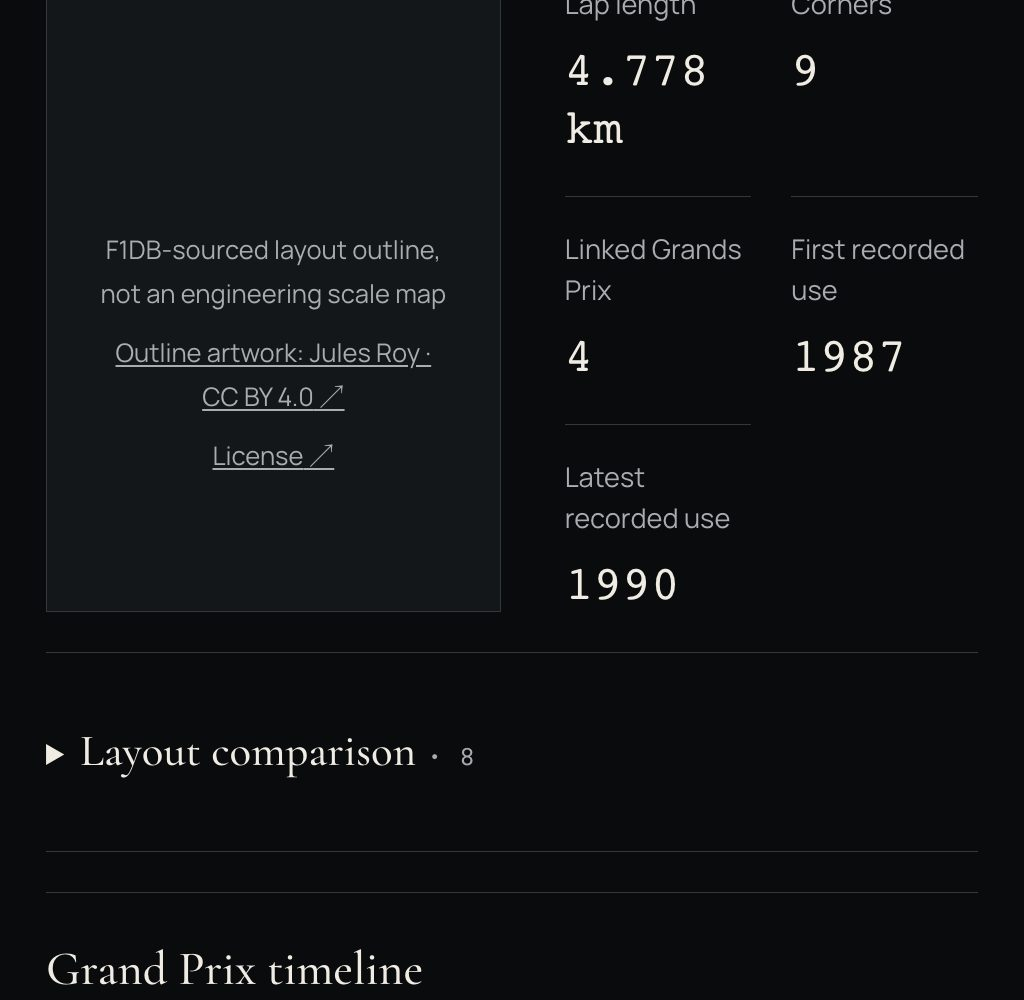
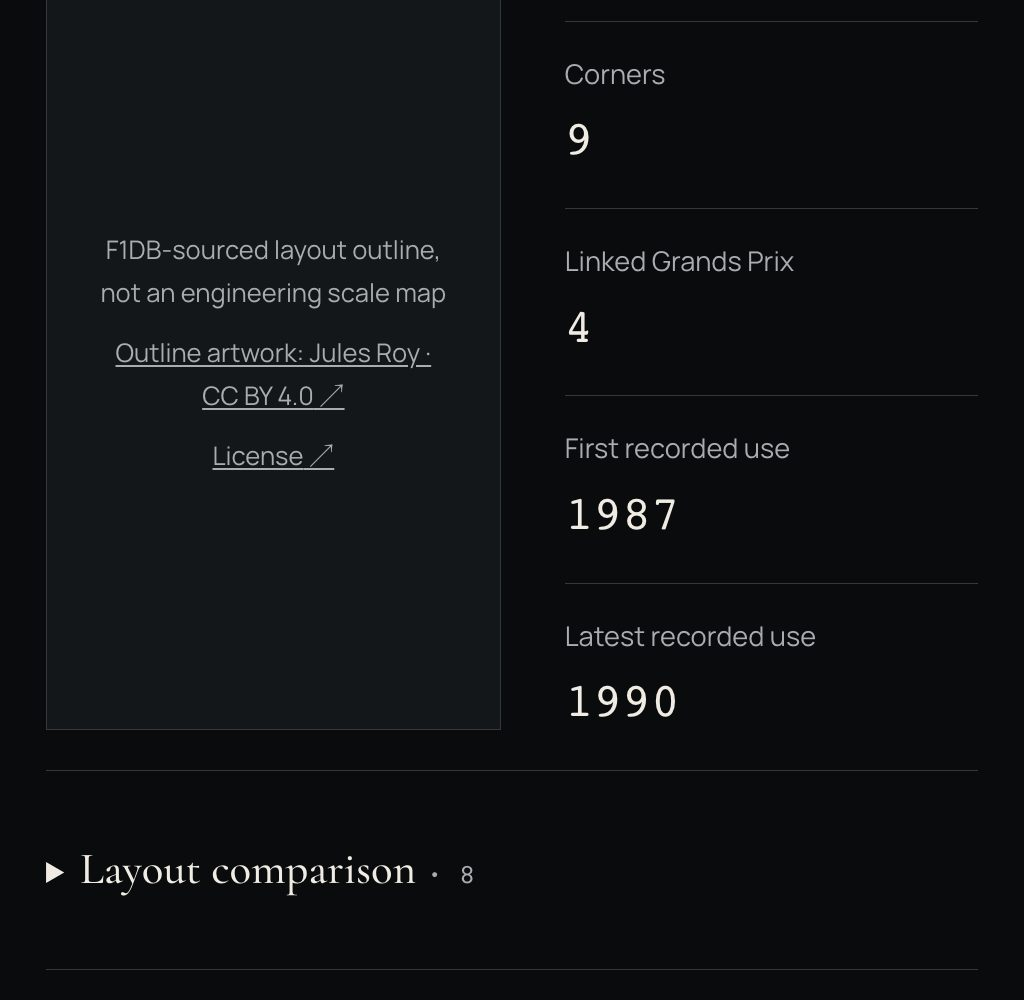
fix(typography): reflow enlarged circuit facts without splitting labels

diff --git a/apps/web/src/components/circuit-experience.module.css b/apps/web/src/components/circuit-experience.module.css
@@ -6,7 +6,7 @@
 .lead { max-width: 75ch; color: var(--muted); font-size: 1rem; line-height: 1.8; }
 .shell > .trackVisual { grid-column: 1; }
 .shell > .layout { grid-column: 2; align-self: start; }
-.layout { display: grid; gap: 1.5rem; }
+.layout { display: grid; gap: 1.5rem; container-type: inline-size; }
 .selector label { display: block; margin-bottom: .75rem; font-size: .9rem; }
 .selector select { width: 100%; min-width: 0; max-width: 100%; min-height: 48px; background: var(--surface); color: var(--ink); padding: .8rem; border: 1px solid var(--muted); border-radius: 0; font-size: 1rem; }
 .measurements { display: grid; grid-template-columns: repeat(2, minmax(0, 1fr)); gap: 1.25rem; }
@@ -87,3 +87,6 @@
 .eventTable td:nth-child(2) { min-width: 17rem; }
 .eventTable a { display: inline-block; min-height: 44px; text-decoration: underline; text-underline-offset: .2em; }
 .eventTable .provenance { border: 0; padding: 0; min-width: 10rem; }
+
+/* Follow the text size as well as viewport width, including 200% zoom. */
+@container (max-width: 18em) { .measurements { grid-template-columns: minmax(0, 1fr); } }

diff --git a/docs/design/product-experience-v3-final/README.md b/docs/design/product-experience-v3-final/README.md
@@ -66,3 +66,26 @@ The loaded local Atlas Serif (Cormorant) and Atlas Sans (Manrope) variable faces
 Read-only three-way compatibility inspection of #309 at `4c2857b` against the product stack found changes in the shared `release.module.css`, with no conflict markers in the automatic textual merge. The final integration changes do not touch #309-owned files. Its owner should rebase after A then B land, preserving B's tokens and reduced-motion overrides and rerunning story route/SEO checks. Source/editorial approval remains a separate blocker. No draft article or photographic asset was published.
 
 Independent review assessed the original final diff, factual labels, exact counts, adjacent pairs, native disclosure semantics and regression value: no blocking findings. Minor untranslated circuit table heading was corrected. Review is neither deterministic browser evidence nor independent editorial/media approval.
+
+## Executed local verification
+
+Node 24.21.0, repository pnpm toolchain; disposable PostgreSQL on port 55464. Full run conclusions and exact latest CI/commit handoff are maintained in [PR #310](https://github.com/vlovers/grid-atlas/pull/310), so queued checks are not represented as passing here.
+
+| Command | Actual result |
+| --- | --- |
+| `pnpm check` | Passed |
+| `pnpm lint` / `pnpm typecheck` | Passed |
+| `pnpm test` | 247 passed |
+| `python3 -m unittest discover -s tests -v` | 418 passed |
+| `pnpm build` | Passed; final circuit CSS also rebuilt successfully |
+| `pnpm test:integration` | 42 passed, 1 existing optional publication test skipped; owned disposable schemas |
+| `DATABASE_URL=… pnpm test:browser` | 508 passed, including desktop/mobile Chromium and WebKit reliability |
+| `PREVIEW_URL=http://127.0.0.1:3491 V3_API=http://127.0.0.1:3480 pnpm exec playwright test --config playwright.product-editorial-v3.config.ts` | Chromium/WebKit/mobile subject, font, chart and 200% checks; latest result in PR handoff |
+| `python3 scripts/verify-real-archive.py` | SQL/API parity passed, including shared-car results and both comparison directions |
+| `python3 scripts/audit-encyclopedia.py --archive … --checksums … --api-url … --web-url …` | Passed: 11,504 API requests, 2,406 web pages, all 27,665 result entries and 1,172 races compared |
+| `pnpm audit:media --as-of=2026-10-26` | Passed; zero public photographs, 160 attributed circuit illustrations |
+| `pnpm check:docs` / `git diff --check` | Passed |
+
+The final 200% visual pass found narrow two-column circuit labels despite no document overflow. A font-relative container query now stacks these facts when text needs more width; four enlarged-text circuit captures were refreshed. All eight Ukrainian supplementary captures loaded the Cyrillic display face; English correctly loads only its needed subset. There are 120 before/after images and 16 final enlarged-text checks with no document overflow.
+
+Early verification attempts were not counted as final acceptance: legacy card/disclosure selectors needed updates; concurrent suites shared a trace directory; a late preview rebuild invalidated four final archive checks. Suites now own sibling artifact directories, and final archive acceptance uses a stable build. No assertions or historical gates were disabled.
